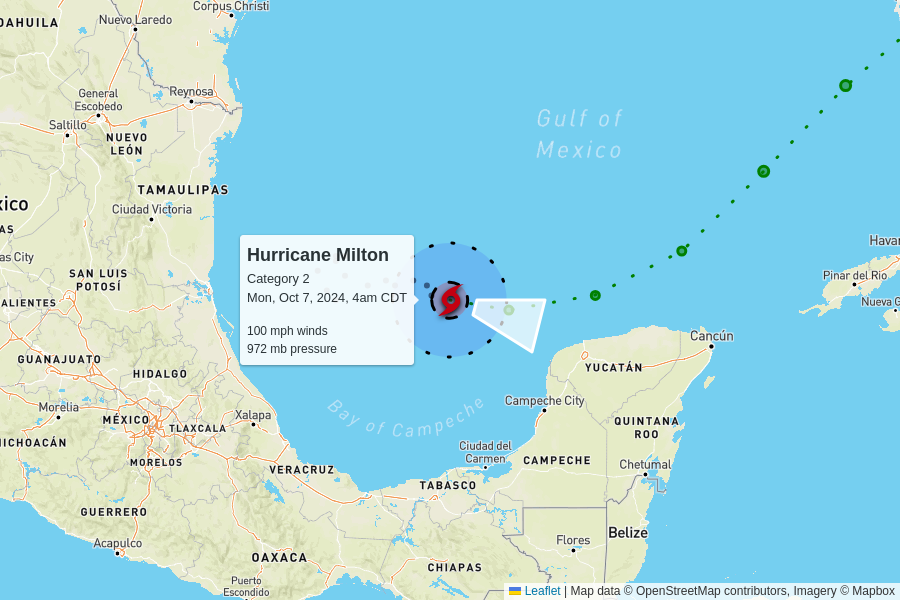
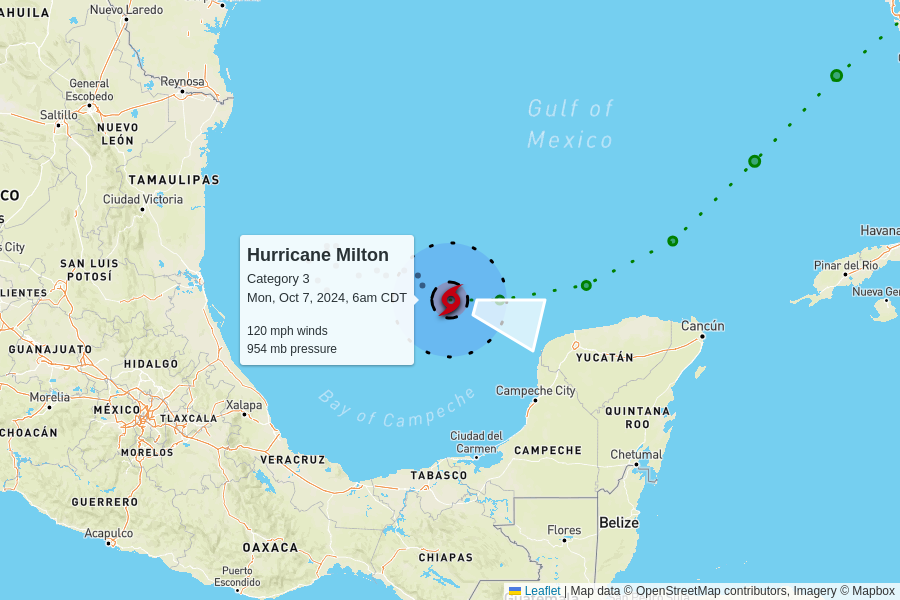
automatic update

diff --git a/docs/index.html b/docs/index.html
@@ -101,6 +101,50 @@
 
     <table>
       <tr>
+        <td colspan="6" class="storm category-3" >
+          <h2>
+            Hurricane Milton - Category 3
+            <p class="updated">last updated <span data-time>2024-10-07T11:00:00.000Z</span></p>
+          </h2>
+        </td>
+      </tr>
+      
+      <tr>
+        <th class="spacer"></th>
+        <th>wind speed</th>
+        <th>central pressure</th>
+        <th>movement</th>
+        <th>data (CSV)</th>
+        <th>National Hurricane Center</th>
+      </tr>
+      <tr>
+        <td class="spacer"></td>
+        <td>120 mph<br>+20 mph since last update</td>
+        <td>954 mb<br>-18 mb since last update</td>
+        <td>
+          8 mph to the east-southeast
+          <br/>
+          <span style="display: inline-block; font-size: 1.5em; transform: rotate(105deg);">↑</span>
+        </td>
+        <td><a href="https://raw.githubusercontent.com/mgwalker/atlantic-hurricanes/main/data/csv/AL142024.csv">AL142024.csv</a></td>
+        <td><a href="https://www.nhc.noaa.gov/archive/2024/MILTON.shtml?">NHC advisories</a></td>
+      </tr>
+      <tr id="storm_AL142024" >
+        <td class="spacer">
+        <td colspan="5">
+          <figure>
+            <img src="AL142024.png">
+            <figcaption>
+              Map data &copy; <a href="https://www.openstreetmap.org/copyright">OpenStreetMap</a> contributors,
+              Imagery &copy; <a href="https://www.mapbox.com/">Mapbox</a> |
+              <a href="https://www.mapbox.com/map-feedback/" target="_blank">Improve this map</a>
+            </figcaption>
+          </figure>
+        </td>
+      </tr>
+      
+
+      <tr>
         <td colspan="6" class="storm category-1" >
           <h2>
             Hurricane Kirk - Category 1
@@ -178,50 +222,6 @@
         <td colspan="5">
           <figure>
             <img src="AL132024.png">
-            <figcaption>
-              Map data &copy; <a href="https://www.openstreetmap.org/copyright">OpenStreetMap</a> contributors,
-              Imagery &copy; <a href="https://www.mapbox.com/">Mapbox</a> |
-              <a href="https://www.mapbox.com/map-feedback/" target="_blank">Improve this map</a>
-            </figcaption>
-          </figure>
-        </td>
-      </tr>
-      
-
-      <tr>
-        <td colspan="6" class="storm category-2" >
-          <h2>
-            Hurricane Milton - Category 2
-            <p class="updated">last updated <span data-time>2024-10-07T09:00:00.000Z</span></p>
-          </h2>
-        </td>
-      </tr>
-      
-      <tr>
-        <th class="spacer"></th>
-        <th>wind speed</th>
-        <th>central pressure</th>
-        <th>movement</th>
-        <th>data (CSV)</th>
-        <th>National Hurricane Center</th>
-      </tr>
-      <tr>
-        <td class="spacer"></td>
-        <td>100 mph<br>+10 mph since last update</td>
-        <td>972 mb<br>-3 mb since last update</td>
-        <td>
-          8 mph to the east-southeast
-          <br/>
-          <span style="display: inline-block; font-size: 1.5em; transform: rotate(105deg);">↑</span>
-        </td>
-        <td><a href="https://raw.githubusercontent.com/mgwalker/atlantic-hurricanes/main/data/csv/AL142024.csv">AL142024.csv</a></td>
-        <td><a href="https://www.nhc.noaa.gov/archive/2024/MILTON.shtml?">NHC advisories</a></td>
-      </tr>
-      <tr id="storm_AL142024" >
-        <td class="spacer">
-        <td colspan="5">
-          <figure>
-            <img src="AL142024.png">
             <figcaption>
               Map data &copy; <a href="https://www.openstreetmap.org/copyright">OpenStreetMap</a> contributors,
               Imagery &copy; <a href="https://www.mapbox.com/">Mapbox</a> |
